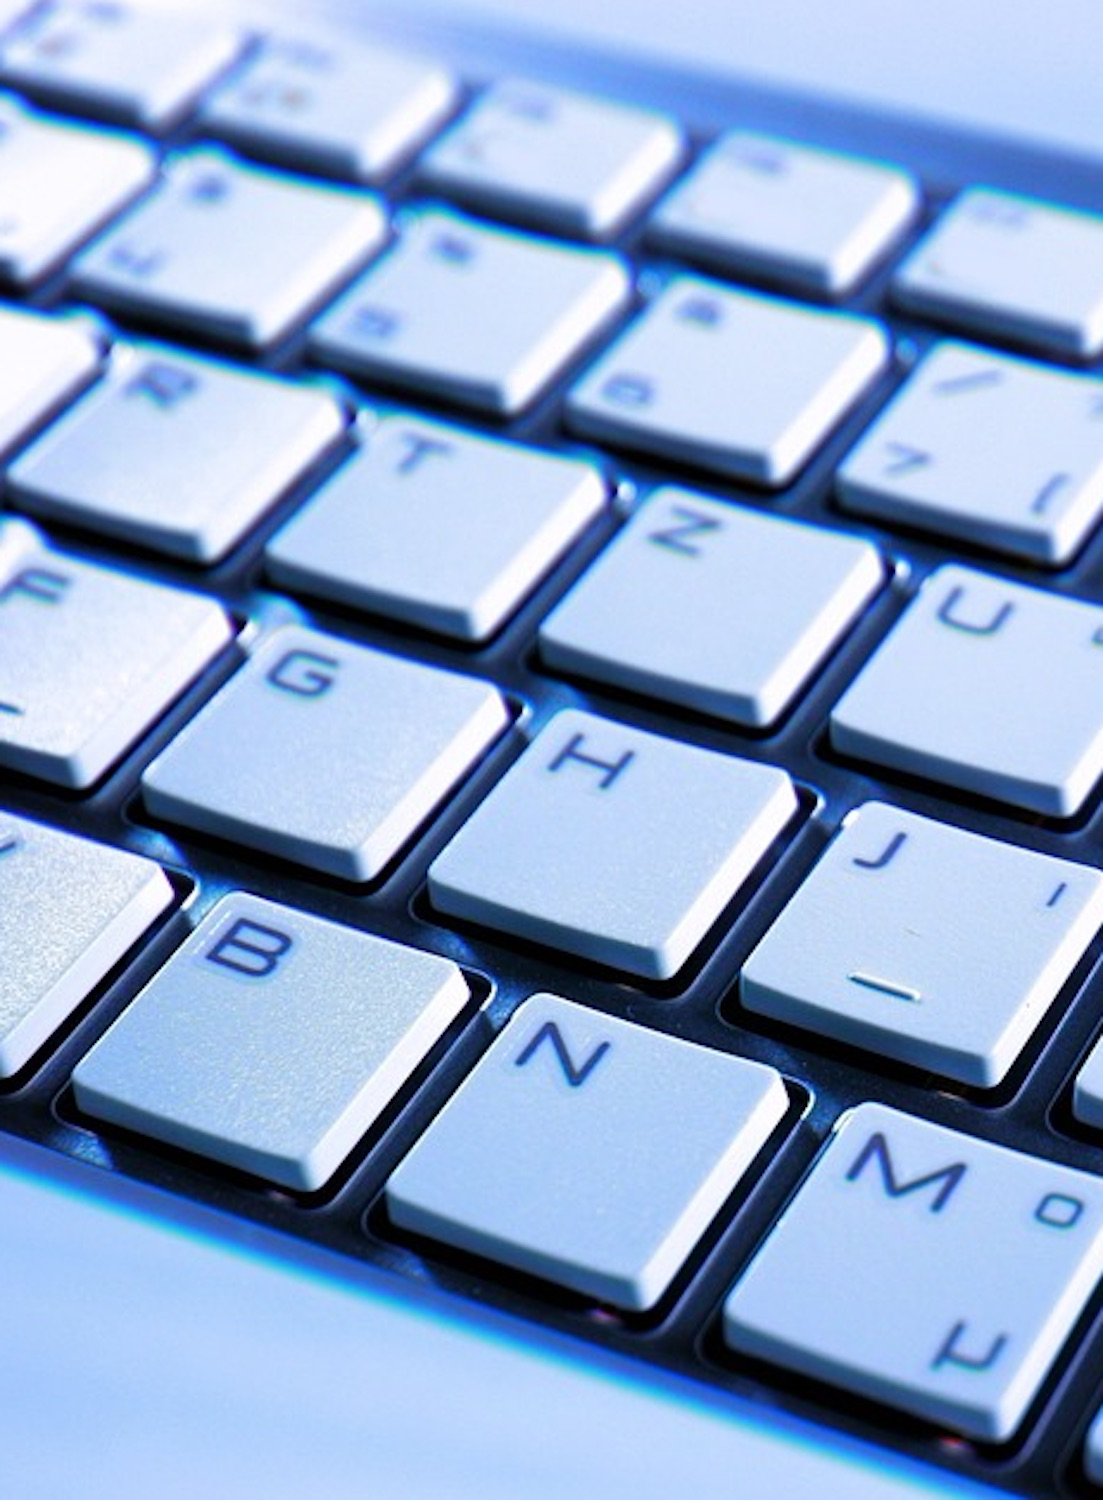
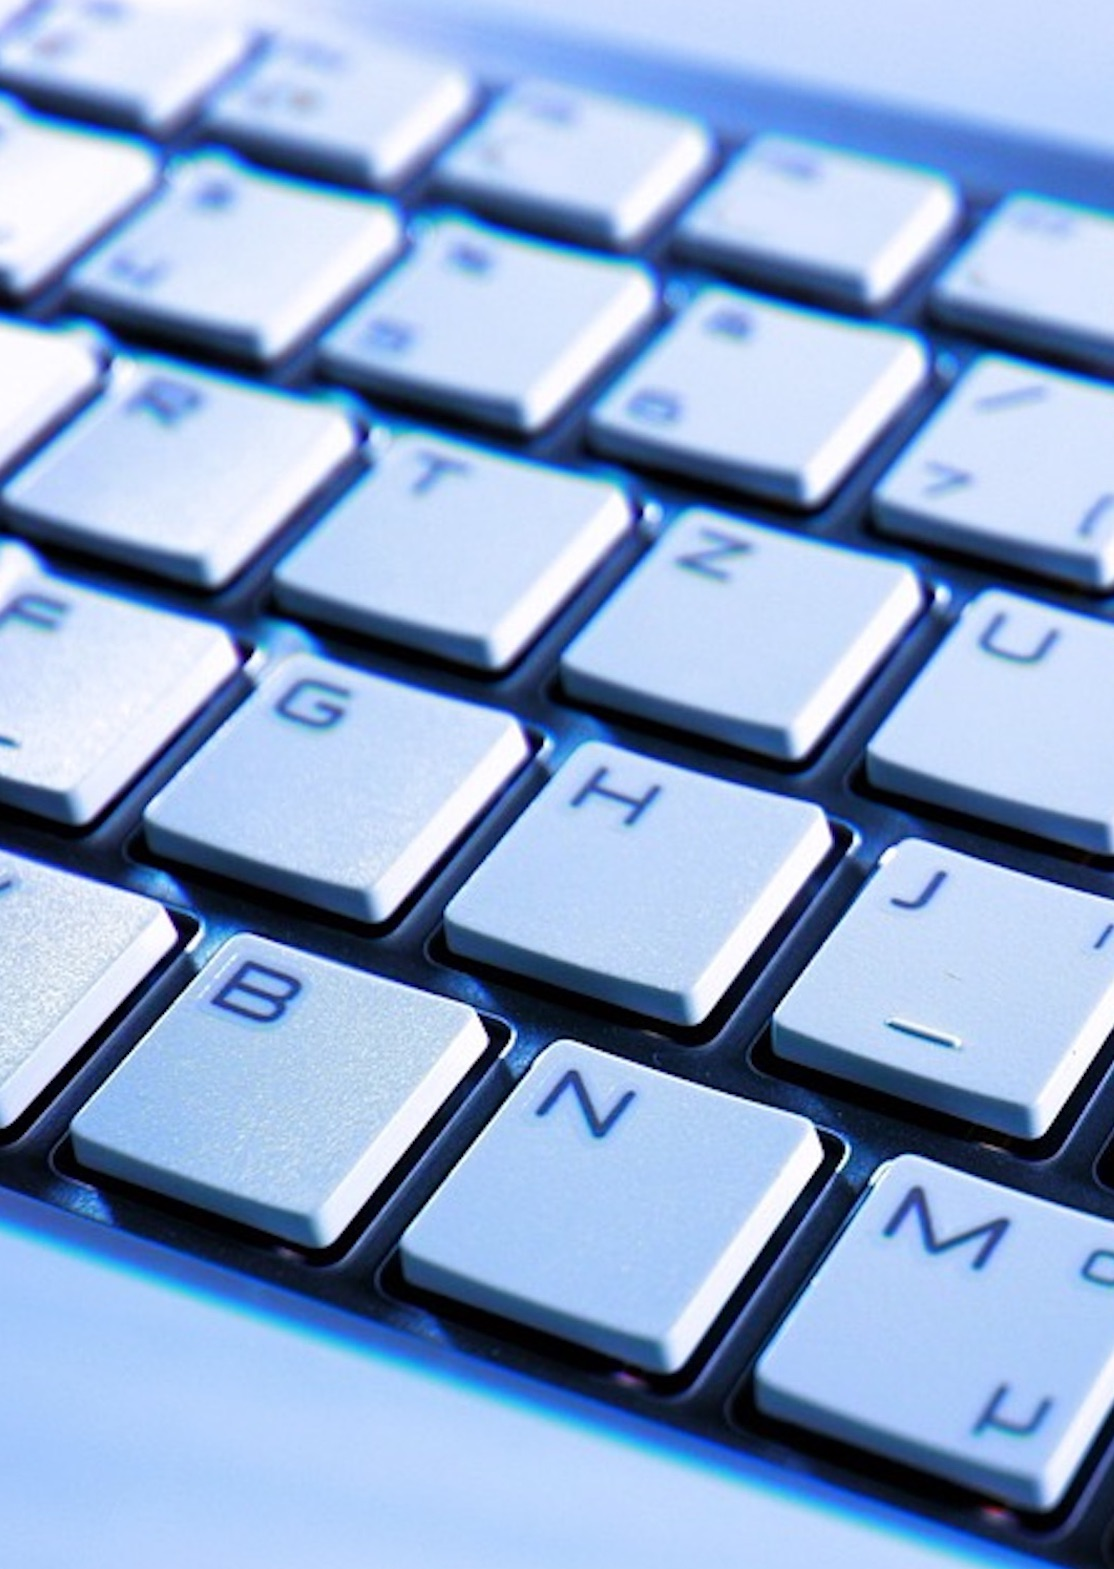
Wallpaper styled for Responsive

diff --git a/public/styles/main.css b/public/styles/main.css
@@ -443,7 +443,7 @@
 
   .bodyPage{
     background-image: url("/styles/kb_large.jpg");
-    width: 95%;
+    width: 100%;
   }
 
   .navBar{
